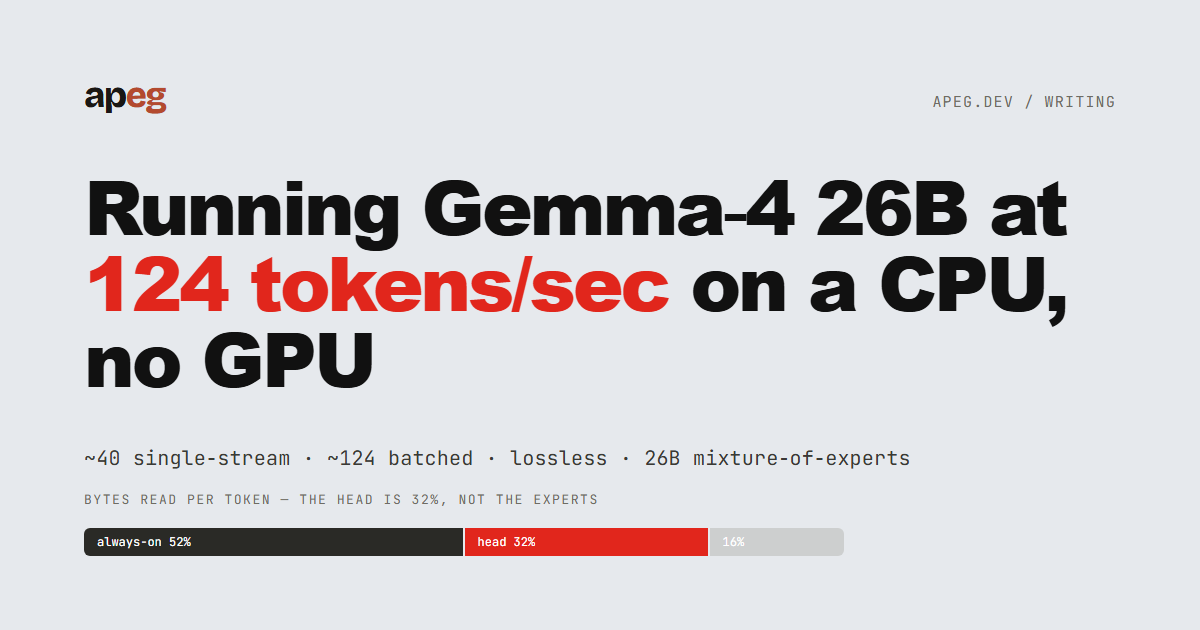
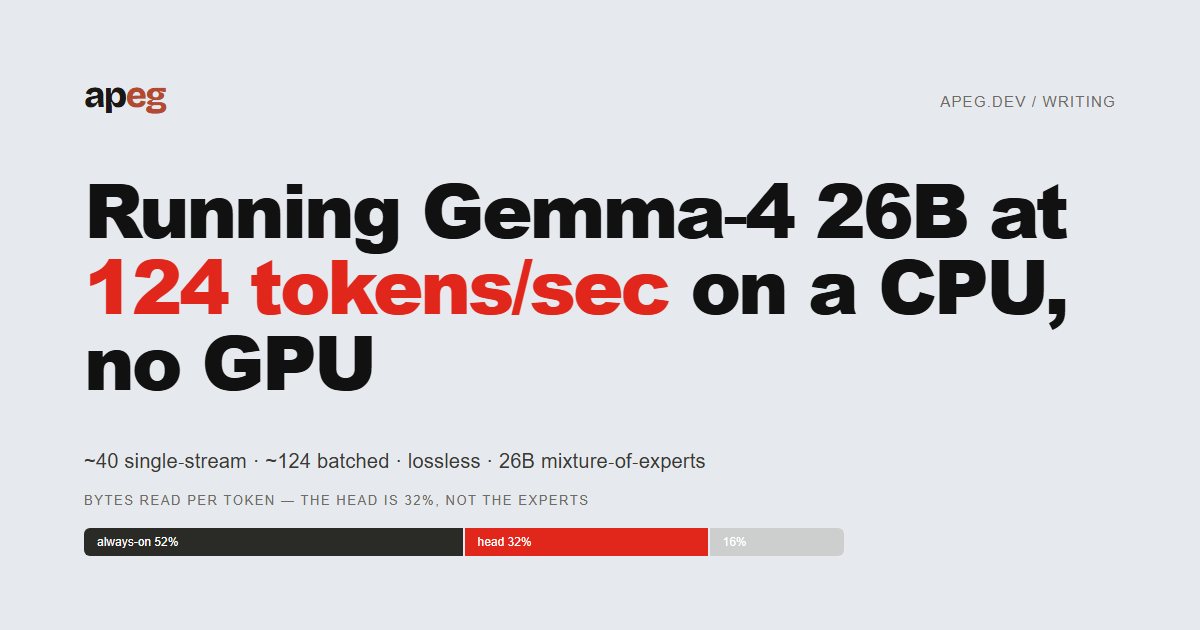
Chart/label font to Helvetica (drop mono labels) via --label token; re-render share card to match

diff --git a/tokens.css b/tokens.css
@@ -21,5 +21,6 @@
   --display:'Helvetica Neue',Helvetica,Arial,sans-serif;
   --body:'Helvetica Neue',Helvetica,Arial,sans-serif;
   --mono:'JetBrains Mono','IBM Plex Mono',monospace;
+  --label:var(--body);   /* chart labels / eyebrow / captions — sans, not mono */
 }
 ::selection{background:var(--accent);color:#fff}

diff --git a/writing/running-gemma4-26b-on-a-cpu/index.html b/writing/running-gemma4-26b-on-a-cpu/index.html
@@ -78,6 +78,7 @@ body.anim .viz .col-bar{height:0}body.anim .viz.in .col-bar{height:var(--h)}
 .line100{position:absolute;left:0;right:0;bottom:var(--y);border-top:1px dashed rgba(179,74,47,.45);pointer-events:none}
 .col-x-axis{display:flex;gap:clamp(.4rem,2vw,1rem)}
 .col-x-axis>span{flex:1;text-align:center;font-family:var(--mono);font-size:.56rem;color:var(--sub);letter-spacing:.04em}
+.eyebrow,.byline,.viz-cap,.cap,.seg,.vbar-l,.vbar-f,.col-v,.col-x-axis>span{font-family:var(--label)}
 .callout{background:var(--teal-bg);border-left:2px solid var(--teal);border-radius:0 8px 8px 0;padding:1.1rem 1.3rem;margin:1.7rem 0;font-style:italic;color:var(--ink2)}
 .callout strong{font-style:normal}
 footer{border-top:1px solid var(--line);padding:2.5rem 0 4rem;font-family:var(--mono);font-size:.7rem;color:var(--sub)}